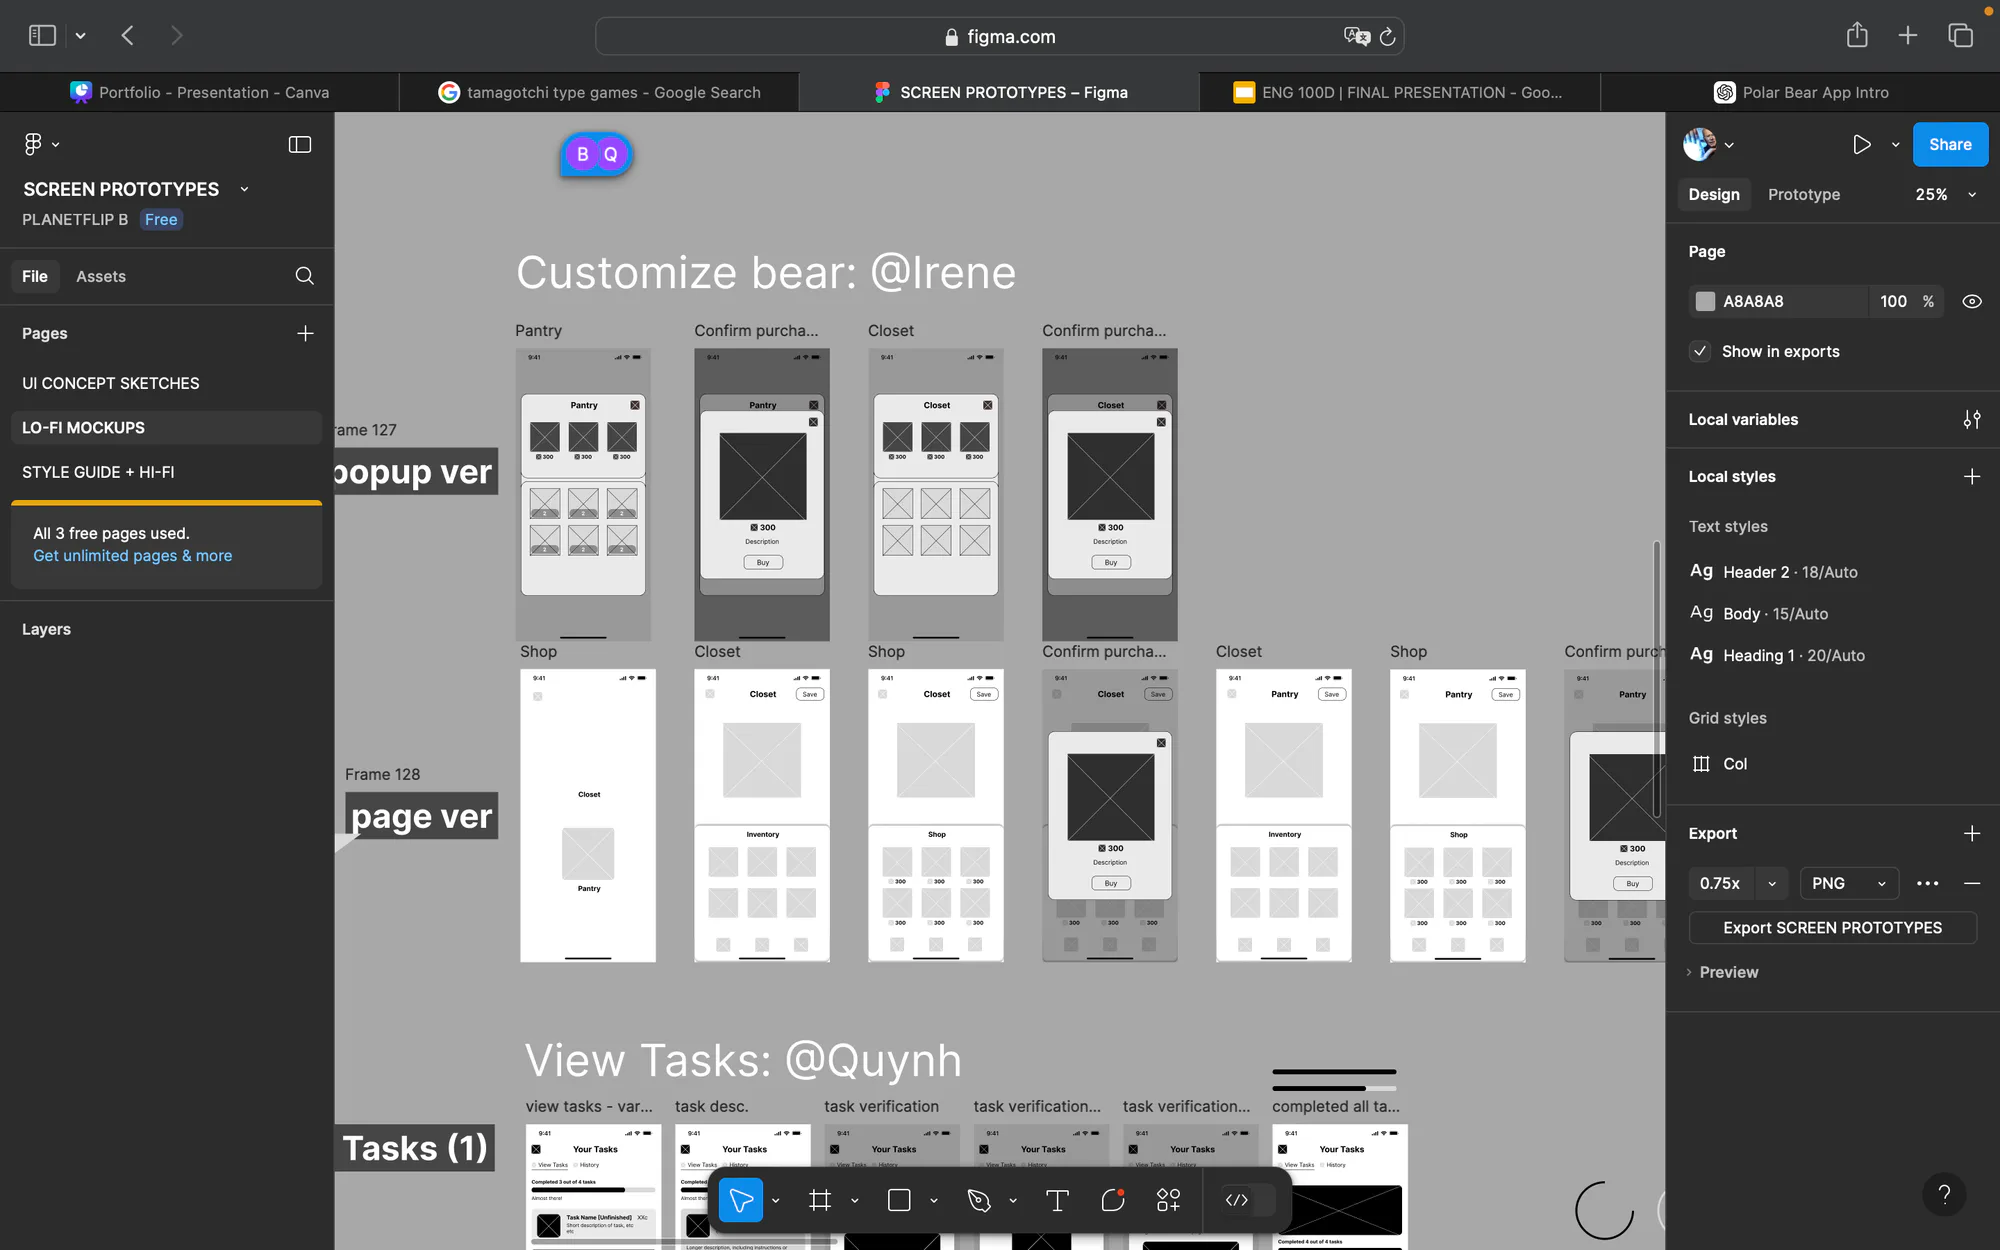
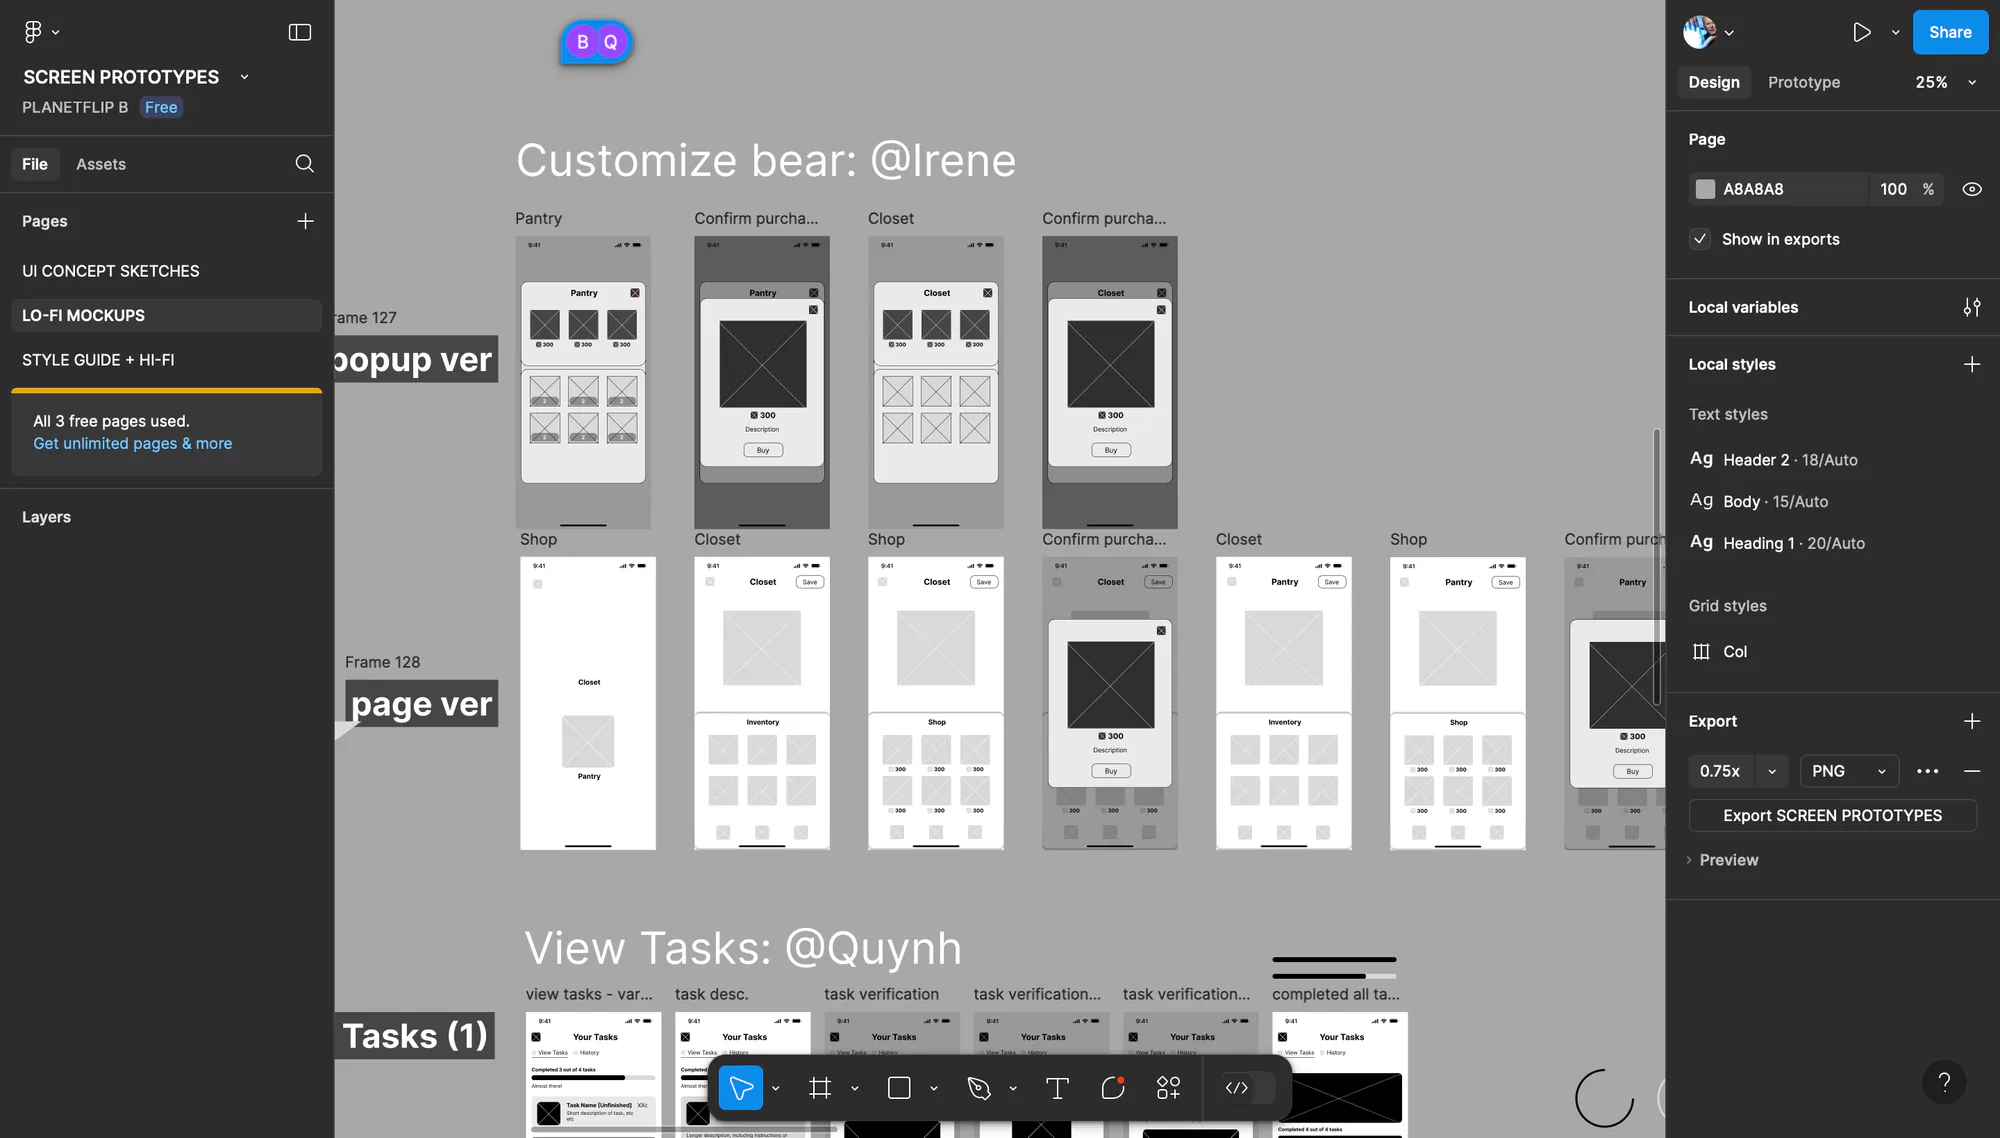
Publish Polar Bear process images without the browser window and survey header

diff --git a/site/scripts/main.js b/site/scripts/main.js
@@ -1,6 +1,6 @@
-import { createLotusRenderer } from "./scene/lotus-renderer.js?v=4cc7a49fba8c";
-import { createDragonflyRenderer } from "./scene/dragonfly-renderer.js?v=4cc7a49fba8c";
-import { initializePortfolio } from "./portfolio-controller.js?v=4cc7a49fba8c";
+import { createLotusRenderer } from "./scene/lotus-renderer.js?v=5c345a75caae";
+import { createDragonflyRenderer } from "./scene/dragonfly-renderer.js?v=5c345a75caae";
+import { initializePortfolio } from "./portfolio-controller.js?v=5c345a75caae";
 
 /**
  * Load a local resource relative to this module, including on a repository subpath.
@@ -28,9 +28,9 @@ async function loadResource(relativePath, responseFormat = "text") {
 async function loadLotusRenderer() {
   try {
     const [lotusModel, vertexShader, fragmentShader] = await Promise.all([
-      loadResource("../assets/models/lotus.json?v=4cc7a49fba8c", "json"),
-      loadResource("../assets/shaders/lotus.vert?v=4cc7a49fba8c"),
-      loadResource("../assets/shaders/lotus.frag?v=4cc7a49fba8c"),
+      loadResource("../assets/models/lotus.json?v=5c345a75caae", "json"),
+      loadResource("../assets/shaders/lotus.vert?v=5c345a75caae"),
+      loadResource("../assets/shaders/lotus.frag?v=5c345a75caae"),
     ]);
     return createLotusRenderer(lotusModel, vertexShader, fragmentShader);
   } catch (error) {
@@ -47,7 +47,7 @@ async function loadLotusRenderer() {
 async function loadDragonflyRenderer(portfolioRoot) {
   try {
     const modelBuffer = await loadResource(
-      "../assets/models/dragonfly.bin?v=4cc7a49fba8c",
+      "../assets/models/dragonfly.bin?v=5c345a75caae",
       "arrayBuffer",
     );
     const modelBytes = new Uint8Array(modelBuffer);
@@ -68,9 +68,9 @@ async function startPortfolio() {
   const portfolioRoot = document.querySelector("#portfolio-site");
   const [portfolioData, mediaManifest, lotusRenderer, dragonflyRenderer] =
     await Promise.all([
-      loadResource("../data/projects.json?v=4cc7a49fba8c", "json"),
+      loadResource("../data/projects.json?v=5c345a75caae", "json"),
       /** Size variants are an enhancement; the original images remain available. */
-      loadResource("../data/media-manifest.json?v=4cc7a49fba8c", "json").catch((error) => {
+      loadResource("../data/media-manifest.json?v=5c345a75caae", "json").catch((error) => {
         console.warn("Image size variants could not load.", error);
         return {};
       }),

diff --git a/site/scripts/portfolio-controller.js b/site/scripts/portfolio-controller.js
@@ -1,17 +1,17 @@
-import { createWorkGallery } from "./work-gallery.js?v=4cc7a49fba8c";
-import { translations } from "./translations.js?v=4cc7a49fba8c";
-import { createPortfolioRouter } from "./portfolio-routes.js?v=4cc7a49fba8c";
+import { createWorkGallery } from "./work-gallery.js?v=5c345a75caae";
+import { translations } from "./translations.js?v=5c345a75caae";
+import { createPortfolioRouter } from "./portfolio-routes.js?v=5c345a75caae";
 import {
   createSectionTransition,
   getBloomProgress,
-} from "./motion/section-transition.js?v=4cc7a49fba8c";
-import { createNavigationHover } from "./motion/navigation-hover.js?v=4cc7a49fba8c";
-import { createLotusPainter } from "./scene/lotus-ascii-painter.js?v=4cc7a49fba8c";
+} from "./motion/section-transition.js?v=5c345a75caae";
+import { createNavigationHover } from "./motion/navigation-hover.js?v=5c345a75caae";
+import { createLotusPainter } from "./scene/lotus-ascii-painter.js?v=5c345a75caae";
 import {
   bloomSettings,
   lotusSceneSettings,
   sectionTransitionSettings,
-} from "./motion/settings.js?v=4cc7a49fba8c";
+} from "./motion/settings.js?v=5c345a75caae";
 
 /**
  * Connect the portfolio navigation, translations, and animated canvas renderers.

diff --git a/site/index.html b/site/index.html
@@ -58,10 +58,10 @@
       }
     </script>
     <link rel="icon" href="assets/work-icons/eye-0.png" type="image/png" />
-    <link rel="stylesheet" href="styles/portfolio.css?v=4cc7a49fba8c" />
-    <link rel="stylesheet" href="assets/fonts/noto-sans-sc/font-face.css?v=4cc7a49fba8c" />
+    <link rel="stylesheet" href="styles/portfolio.css?v=5c345a75caae" />
+    <link rel="stylesheet" href="assets/fonts/noto-sans-sc/font-face.css?v=5c345a75caae" />
     <link rel="preload" href="assets/fonts/InstrumentSans-Variable.woff2" as="font" type="font/woff2" crossorigin />
-    <script type="module" src="scripts/main.js?v=4cc7a49fba8c"></script>
+    <script type="module" src="scripts/main.js?v=5c345a75caae"></script>
   </head>
   <body>
     <div id="portfolio-site" lang="en" aria-label="Luke Wang portfolio">

diff --git a/site/scripts/motion/section-transition.js b/site/scripts/motion/section-transition.js
@@ -1,5 +1,5 @@
-import { clampRange, relaxSpring, smoothStep, smootherStep } from "./easing.js?v=4cc7a49fba8c";
-import { bloomSettings, sectionTransitionSettings } from "./settings.js?v=4cc7a49fba8c";
+import { clampRange, relaxSpring, smoothStep, smootherStep } from "./easing.js?v=5c345a75caae";
+import { bloomSettings, sectionTransitionSettings } from "./settings.js?v=5c345a75caae";
 
 /**
  * Evaluate the bloom loop, including its closed and open holds.

diff --git a/site/scripts/scene/lotus-ascii-painter.js b/site/scripts/scene/lotus-ascii-painter.js
@@ -1,5 +1,5 @@
-import { clampRange, deterministicNoise } from "../motion/easing.js?v=4cc7a49fba8c";
-import { lotusSceneSettings } from "../motion/settings.js?v=4cc7a49fba8c";
+import { clampRange, deterministicNoise } from "../motion/easing.js?v=5c345a75caae";
+import { lotusSceneSettings } from "../motion/settings.js?v=5c345a75caae";
 
 /**
  * Paint the rendered lotus as ASCII characters on the paper canvas and keep

diff --git a/site/scripts/motion/navigation-hover.js b/site/scripts/motion/navigation-hover.js
@@ -1,5 +1,5 @@
-import { getPulse, relaxSpring } from "./easing.js?v=4cc7a49fba8c";
-import { navigationHoverSettings } from "./settings.js?v=4cc7a49fba8c";
+import { getPulse, relaxSpring } from "./easing.js?v=5c345a75caae";
+import { navigationHoverSettings } from "./settings.js?v=5c345a75caae";
 
 /**
  * Dwell timing and restrained spring responses for the three home navigation

diff --git a/site/reading/sisyphus/pa1.html b/site/reading/sisyphus/pa1.html
@@ -14,7 +14,7 @@
       href="../../assets/work-icons/rock-0.png"
       type="image/png"
     />
-    <link rel="stylesheet" href="document.css?v=4cc7a49fba8c" />
+    <link rel="stylesheet" href="document.css?v=5c345a75caae" />
   </head>
   <body class="assignment-page">
     <a class="skip-link" href="#document">Skip to document</a>

diff --git a/site/reading/sisyphus/welcome-email.html b/site/reading/sisyphus/welcome-email.html
@@ -14,7 +14,7 @@
       href="../../assets/work-icons/rock-0.png"
       type="image/png"
     />
-    <link rel="stylesheet" href="document.css?v=4cc7a49fba8c" />
+    <link rel="stylesheet" href="document.css?v=5c345a75caae" />
   </head>
   <body class="email-page">
     <a class="skip-link" href="#document">Skip to document</a>
